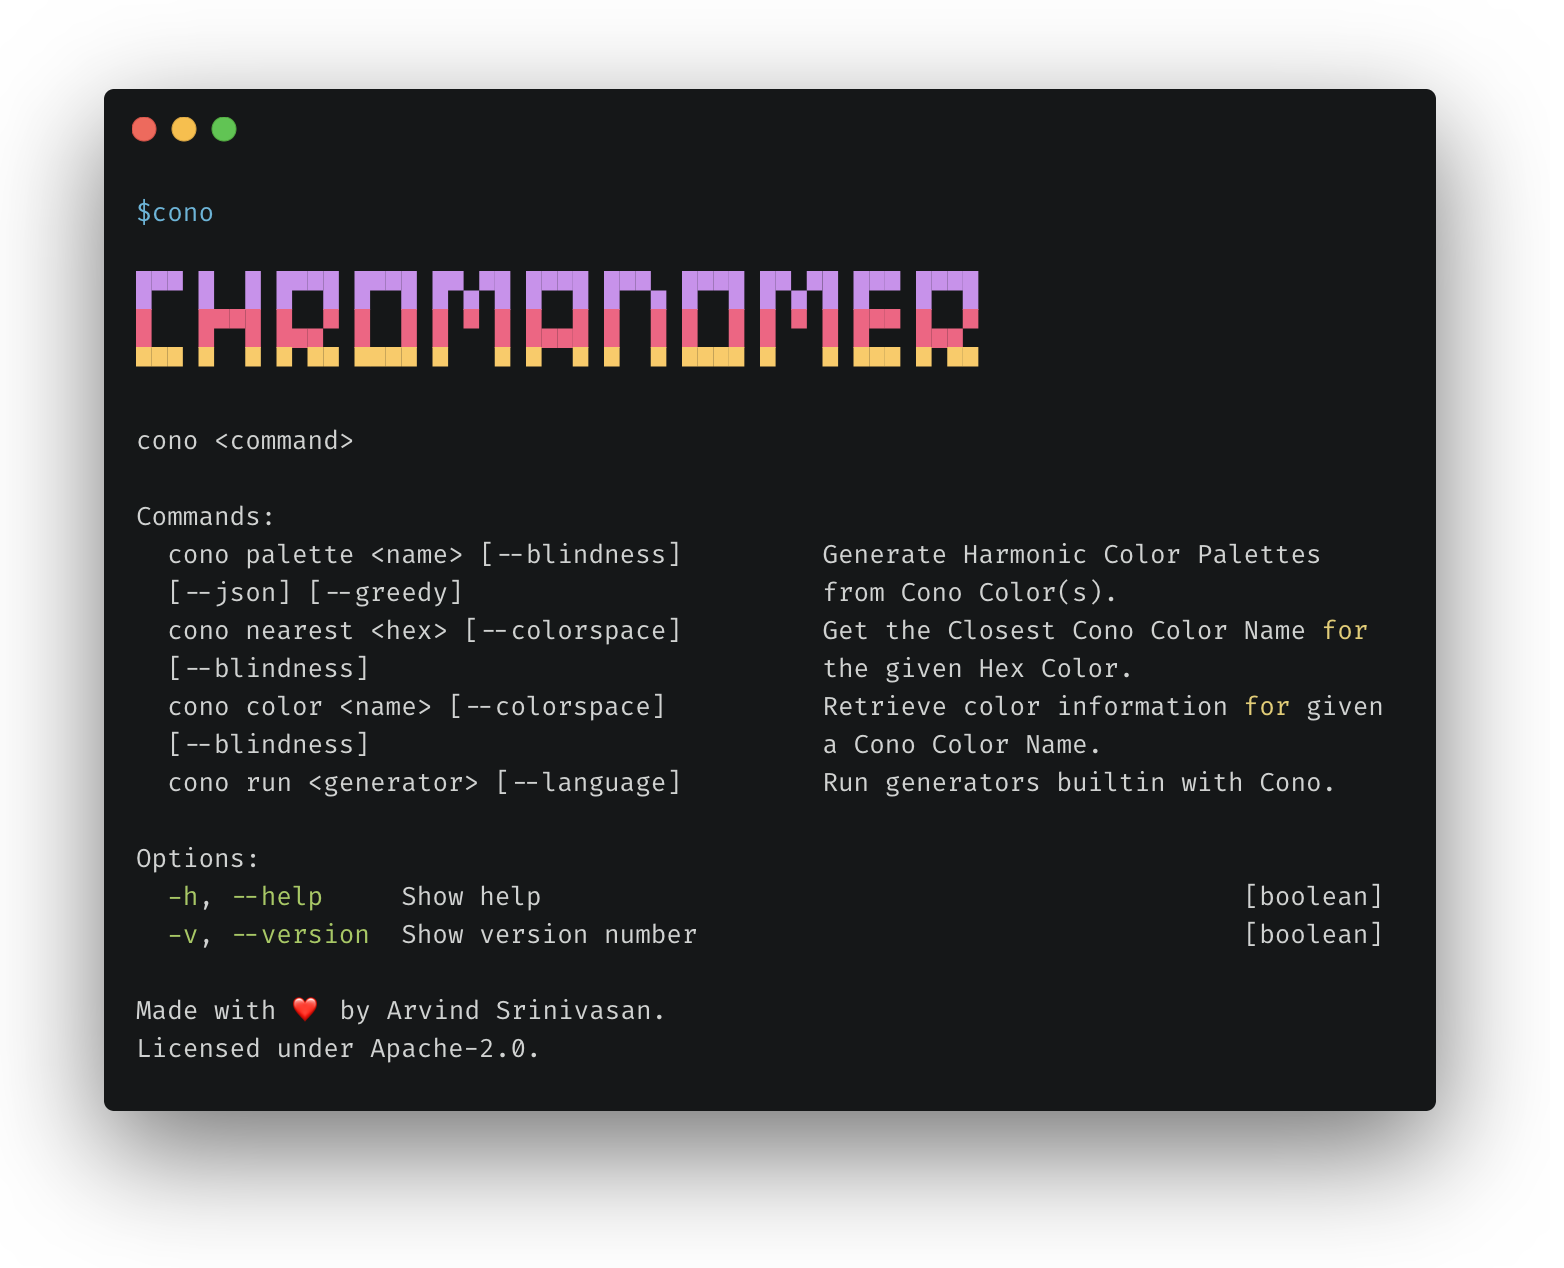
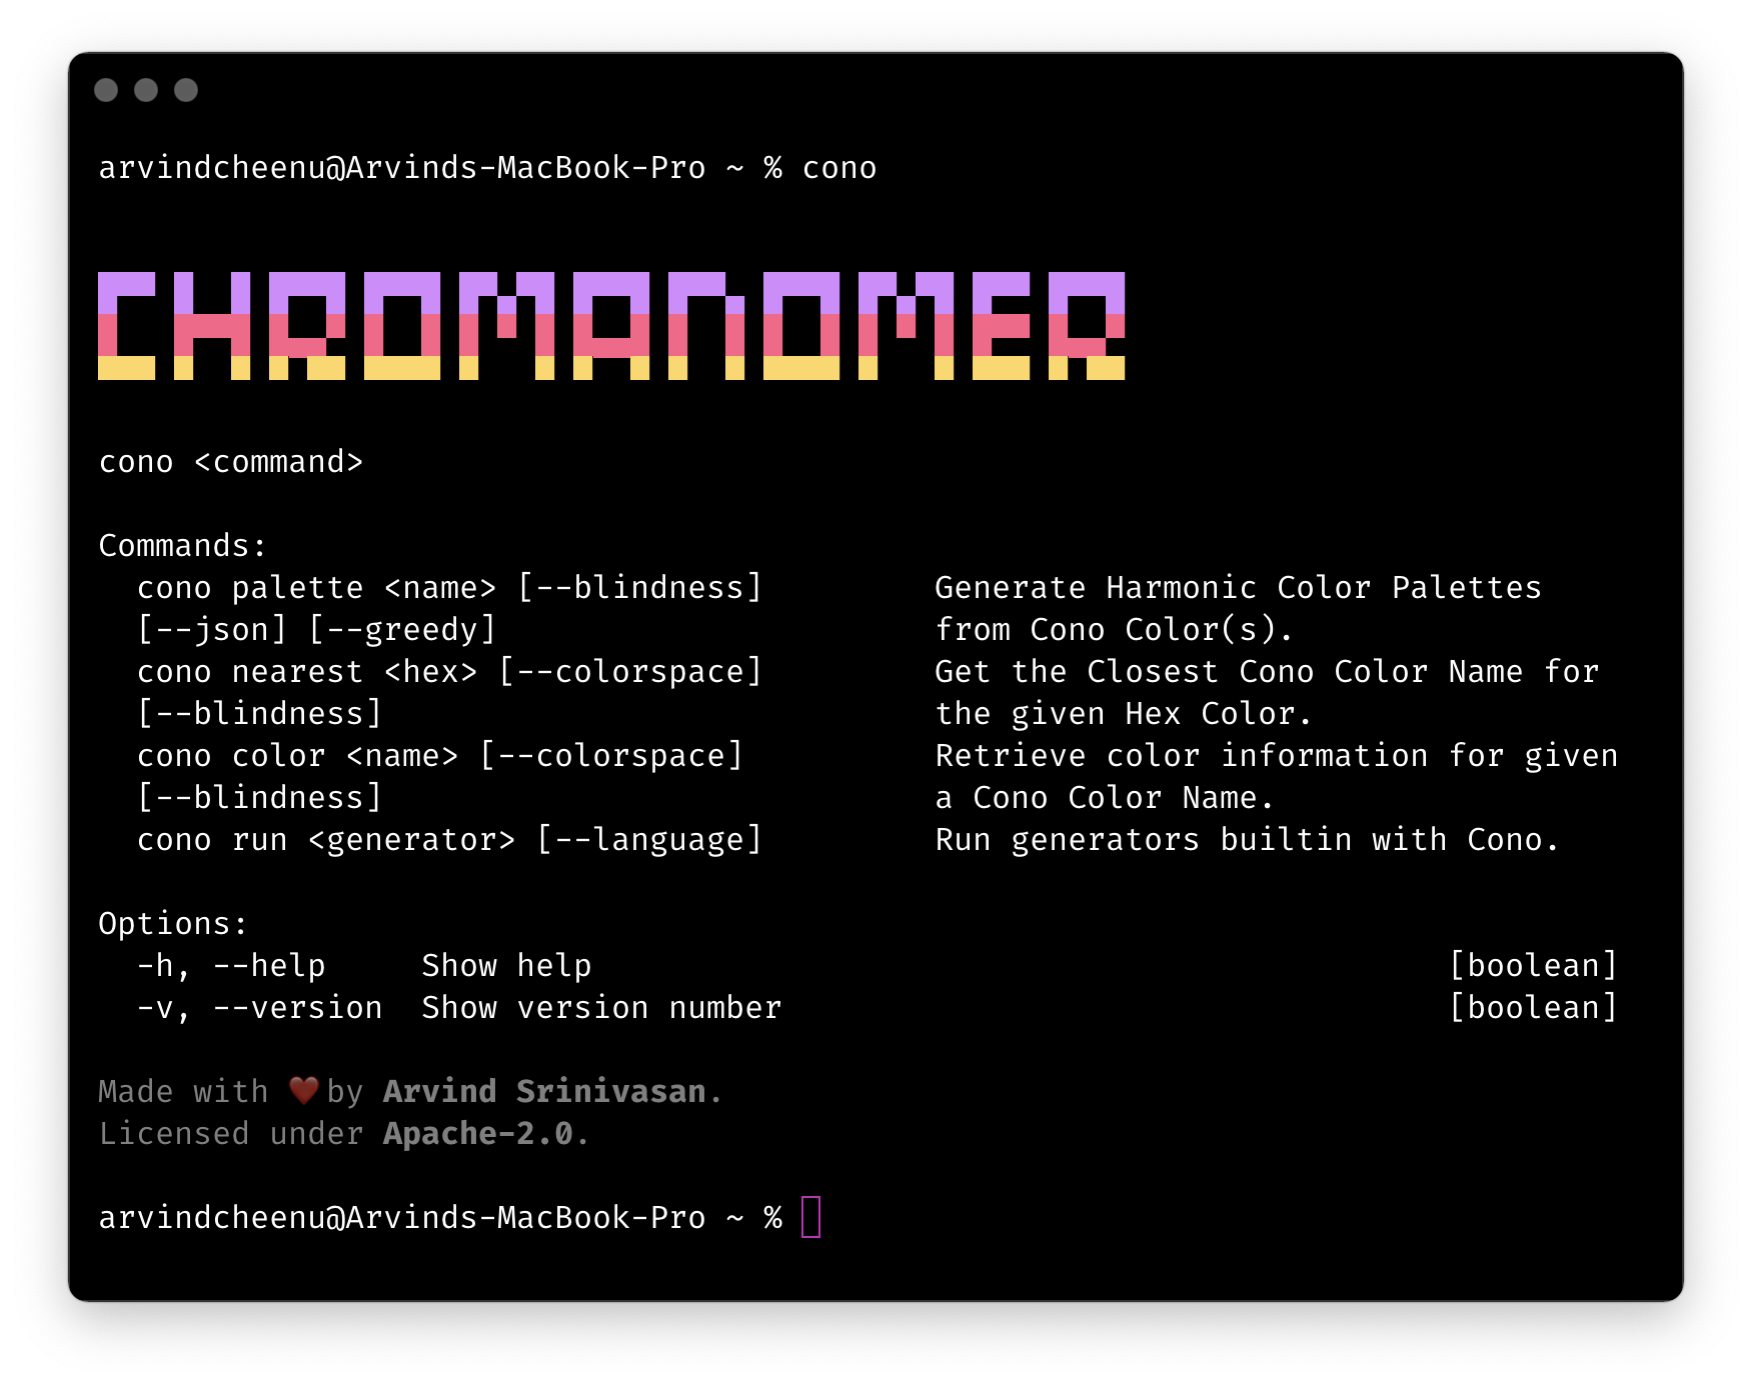
Added New Screenshots

Changed region(s): [[0.0307, 0.0308, 0.9821, 0.9535]]

diff --git a/bin/index.js b/bin/index.js
@@ -337,6 +337,7 @@ let {argv} = require ('yargs')
   )
   .fail (function (_, __, yargs) {
     console.log (yargs.help ());
+    console.log ('');
     process.exit (0);
   })
   .demandCommand (1, '')
@@ -344,6 +345,6 @@ let {argv} = require ('yargs')
   .alias ('v', 'version')
   .epilog (
     chalk.dim (
-      `Made with ${chalk.white.red ('❤')} by ${chalk.white.bold ('Arvind Srinivasan')}.\nLicensed under ${chalk.bold ('Apache-2.0')}.\n`
+      `Made with ${chalk.white.red ('❤')}  by ${chalk.white.bold ('Arvind Srinivasan')}.\nLicensed under ${chalk.bold ('Apache-2.0')}.`
     )
   );

diff --git a/README.md b/README.md
@@ -38,4 +38,4 @@ Besides the above considerations while designing the schema, the following were 
 
 ### 🔗 Links to Documentation
 |<h1>🚸</h1>[Installation & Usage](https://github.com/arvindcheenu/Chromanomer/blob/master/docs/INSTALL.md)|<h1>💄</h1>[Sass Api](https://github.com/arvindcheenu/Chromanomer/blob/master/docs/STYLE.md)|<h1>💻</h1>[Node Api](https://github.com/arvindcheenu/Chromanomer/blob/master/docs/API.md)|<h1>🕹</h1>[Command Line Api](https://github.com/arvindcheenu/Chromanomer/blob/master/docs/CLI.md)|
-|--|--|--|--|
+|:--:|:--:|:--:|:--:|
